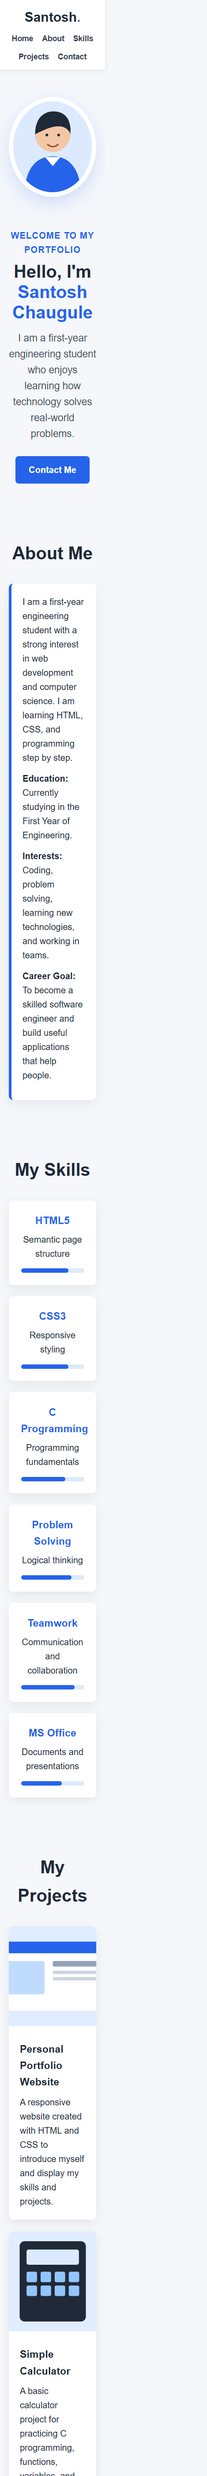
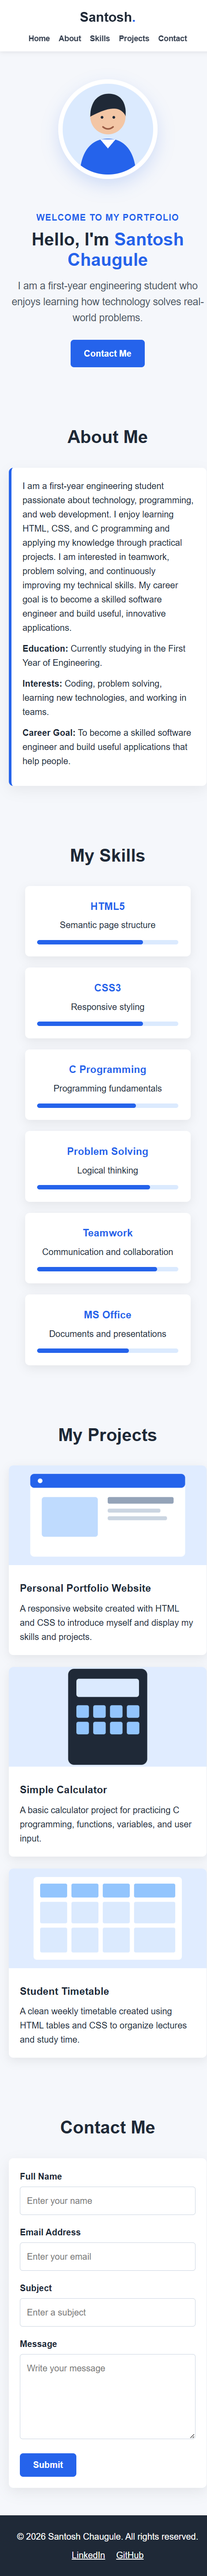
Add personal about description

diff --git a/index.html b/index.html
@@ -42,9 +42,12 @@
             <h2>About Me</h2>
             <div class="about-card">
                 <p>
-                    I am a first-year engineering student with a strong interest in
-                    web development and computer science. I am learning HTML, CSS,
-                    and programming step by step.
+                    I am a first-year engineering student passionate about technology,
+                    programming, and web development. I enjoy learning HTML, CSS, and
+                    C programming and applying my knowledge through practical projects.
+                    I am interested in teamwork, problem solving, and continuously
+                    improving my technical skills. My career goal is to become a skilled
+                    software engineer and build useful, innovative applications.
                 </p>
                 <p>
                     <strong>Education:</strong> Currently studying in the First Year
